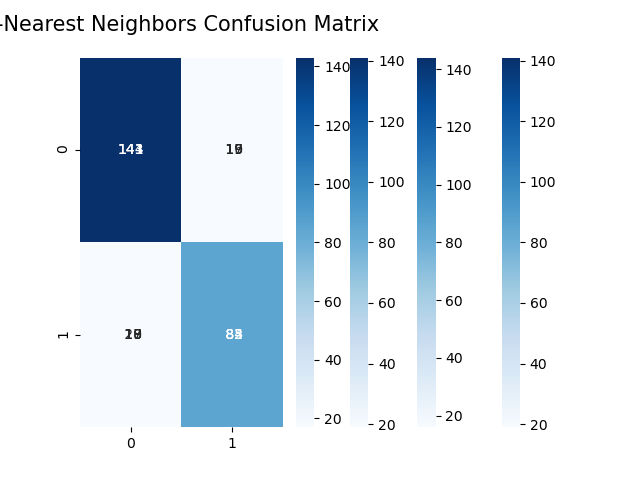
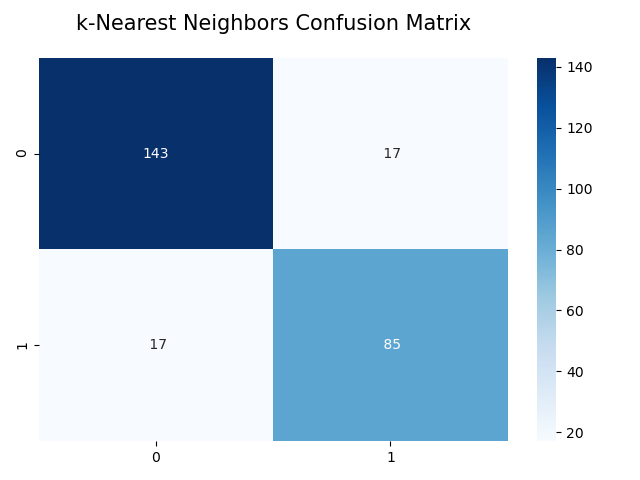
Improved Figures

diff --git a/ML_Project.py b/ML_Project.py
@@ -14,7 +14,7 @@ show_figures = 0 # all figures are displayed in the code
 # WARNING: Requires graphviz (both the executable file and python library)
 # on Windows the executables MUST be added to PATH
 # You may need to restart computer after installation before use (namely if using Windows)
-run_graphviz = 1 # runs graphviz code to create PDF visualizations
+run_graphviz = 0 # runs graphviz code to create PDF visualizations
 # for the Decision Tree model
 
 print_extra_info = 0 # prints extra intermediary information
@@ -51,11 +51,13 @@ if print_extra_info == 1:
 
 # Create Heatmap of Entries Missing Data
 # (uncomment the below lines to obtain the plot)
+sns.heatmap(combined_df.isnull())
+plt.title('Heatmap of Uncleaned Data (Empty Entries in White)')
+plt.tight_layout()
+plt.savefig('MissingDataCheck_Uncleaned.png')
 if show_figures == 1:
-    sns.heatmap(combined_df.isnull())
-    plt.title('Heatmap of Uncleaned Data (Empty Entries in White)')
-    plt.tight_layout()
     plt.show()
+plt.close()
 
 ### Thomas's Data Cleanup
 
@@ -80,12 +82,14 @@ for dataset in combine: # Perform this action for both the testing and training 
 
 # Plot relationship between gender, age, and pclass
 # (uncomment the below lines to obtain the plot)
+grid = sns.FacetGrid(combined_df, row='Pclass', col='Male', height=2.2, aspect=1.6)
+grid.map(plt.hist, 'Age', alpha=.5, bins=20)
+grid.add_legend()
+plt.tight_layout()
+plt.savefig('AgeDistribution.png')
 if show_figures == 1:
-    grid = sns.FacetGrid(combined_df, row='Pclass', col='Male', height=2.2, aspect=1.6)
-    grid.map(plt.hist, 'Age', alpha=.5, bins=20)
-    grid.add_legend()
-    plt.tight_layout()
     plt.show()
+plt.close()
 
 # Fill in missing ages
 guess_ages = np.zeros((2,3)) # Matrix to fill
@@ -153,10 +157,12 @@ combined_df['FamilySize'] = combined_df['SibSp'] + combined_df['Parch'] + 1 # Cr
 
 # Create Heatmap to Check Again for Entries Missing Data
 # (uncomment the below lines to obtain the plot)
+sns.heatmap(combined_df.isnull())
+plt.tight_layout()
+plt.savefig('MissingDataCheck_PartiallyCleaned.png')
 if show_figures == 1:
-    sns.heatmap(combined_df.isnull())
-    plt.tight_layout()
     plt.show()
+plt.close()
     # The heatmap should be a big red/pink square,
     # which indicates that no empty entries are present
     #
@@ -207,10 +213,15 @@ if print_extra_info == 1:
 
 # Create Heatmap to Check Again for Entries Missing Data
 # (uncomment the below lines to obtain the plot)
+sns.heatmap(combined_df.isnull())
+plt.tight_layout()
+plt.savefig('MissingDataCheck_Cleaned.png')
 if show_figures == 1:
-    sns.heatmap(combined_df.isnull())
-    plt.tight_layout()
     plt.show()
+plt.close()
+
+
+    
     # The heatmap should be a big red/pink square,
     # which indicates that no empty entries are present
     #
@@ -237,13 +248,16 @@ correlation_mat = X_train.corr()
 #correlation_mat = combined_df.corr()
 
 # Create Heatmap of Correlations
+
+sns.heatmap(correlation_mat, annot = True)
+plt.title("Correlation matrix of Titanic roster data")
+plt.xlabel("passenger features")
+plt.ylabel("passenger features")
+plt.tight_layout()
+plt.savefig('Correlations.png')
 if show_figures == 1:
-    sns.heatmap(correlation_mat, annot = True)
-    plt.title("Correlation matrix of Titanic roster data")
-    plt.xlabel("passenger features")
-    plt.ylabel("passenger features")
-    plt.tight_layout()
     plt.show()
+plt.close()
 
 ########################################################################
 ##### Thomas's ML Algorithms
@@ -281,7 +295,9 @@ sns.heatmap(confusion_matrix(y_test,y_pred_dt),annot=True,fmt='3.0f',cmap="Blues
 plt.title('Decision Trees Matrix', y=1.05, size=15)
 plt.savefig('Confusion_Matrix_dt.png')
 plt.tight_layout()
-plt.show()
+if show_figures==1:
+    plt.show()
+plt.close()
 
 
 # Documentation on decision trees:
@@ -331,9 +347,10 @@ print(f'Random Forest Accuracy: {round(acc_rf*100,3)}%')
 
 sns.heatmap(confusion_matrix(y_test,Y_pred_rf),annot=True,fmt='3.0f',cmap="Blues")
 plt.title('Random Forest Confusion Matrix', y=1.05, size=15)
-plt.savefig('Confusion_Matrix_rf.png')
 plt.tight_layout()
-plt.show()
+plt.savefig('Confusion_Matrix_rf.png')
+if show_figures==1:
+    plt.show()
 plt.close()
 
 
@@ -359,7 +376,11 @@ print(f'Logistic Regression Accuracy: {round(acc_log*100,3)}%')
 
 sns.heatmap(confusion_matrix(y_test,Y_pred_lr),annot=True,fmt='3.0f',cmap="Blues")
 plt.title('Logistical Regression Confusion Matrix', y=1.05, size=15)
+plt.tight_layout()
 plt.savefig('Confusion_Matrix_lr.png')
+if show_figures==1:
+    plt.show()
+plt.close()
 
 
 # Another way to view feature correlations (uncomment to see in terminal output)
@@ -385,9 +406,11 @@ print(f'k-Nearest Neighbors Accuracy: {round(acc_knn*100,3)}%')
 
 sns.heatmap(confusion_matrix(y_test,Y_pred_knn),annot=True,fmt='3.0f',cmap="Blues")
 plt.title('k-Nearest Neighbors Confusion Matrix', y=1.05, size=15)
-plt.savefig('Confusion_Matrix_knn.png')
 plt.tight_layout()
-plt.show()
+plt.savefig('Confusion_Matrix_knn.png')
+if show_figures==1:
+    plt.show()
+plt.close()
 
 
 ### Post-processing
